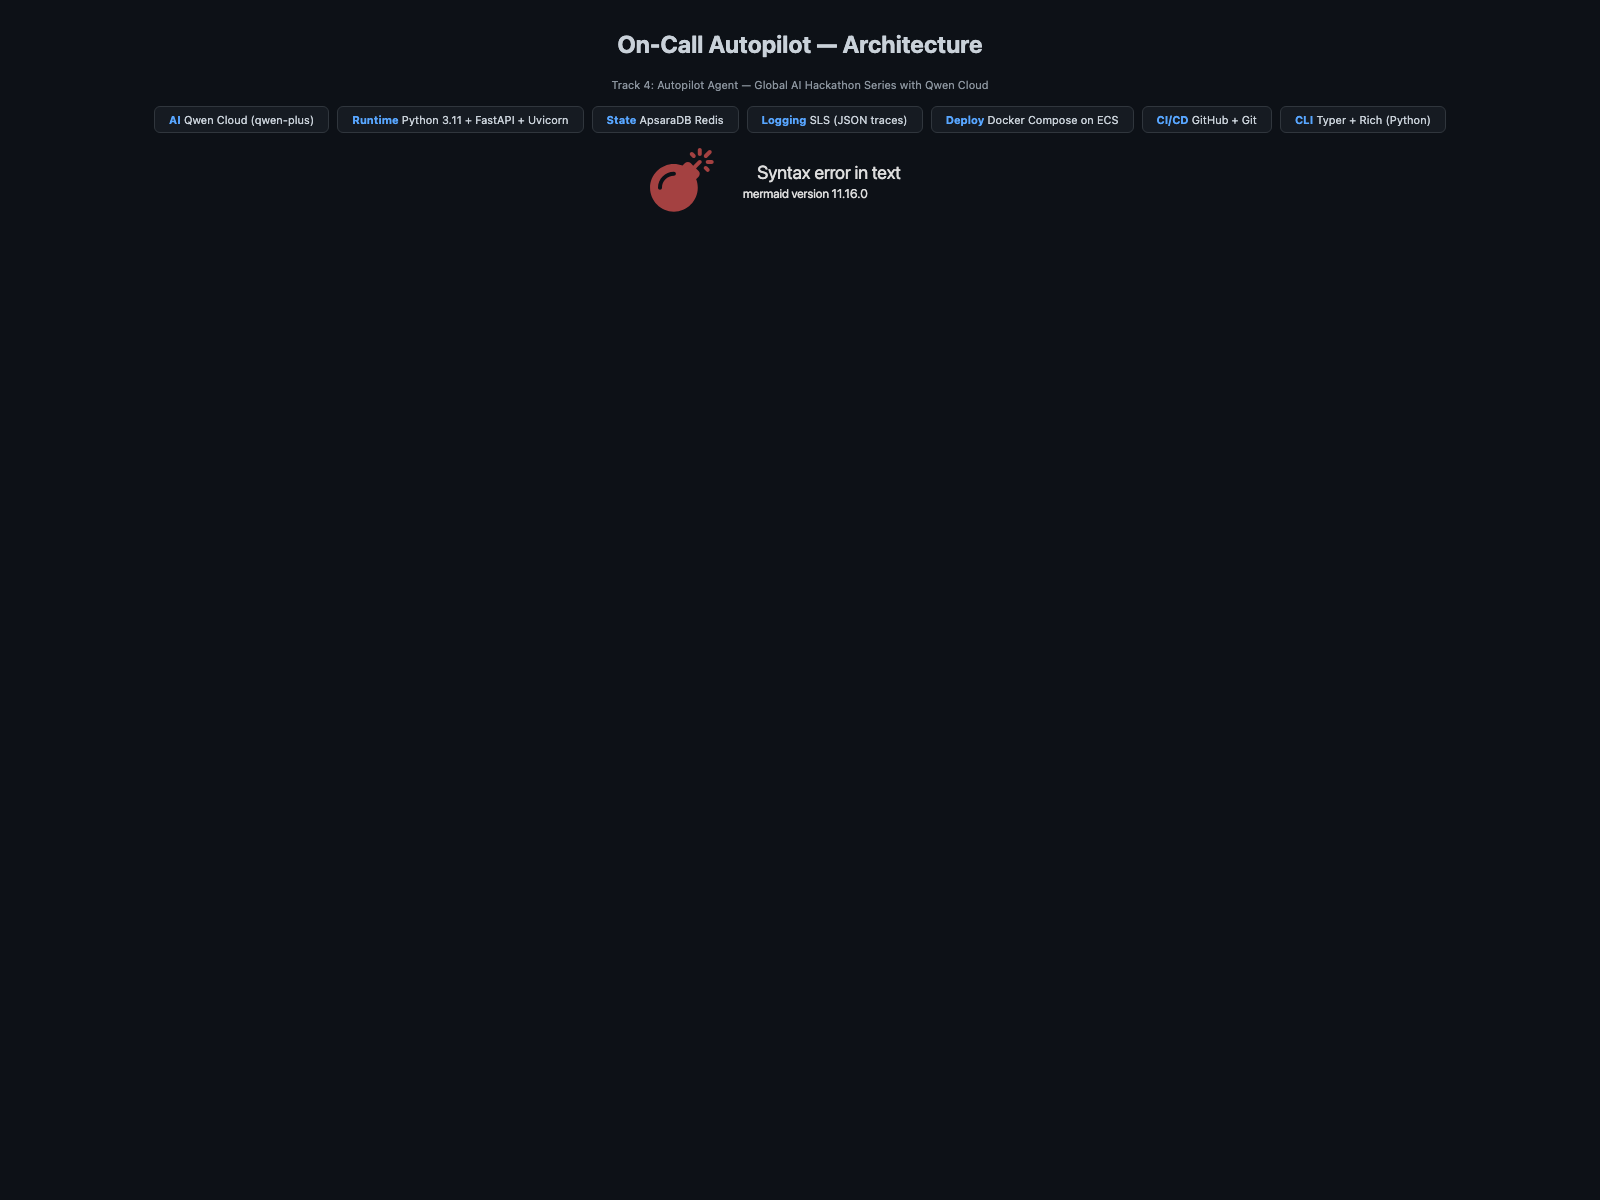
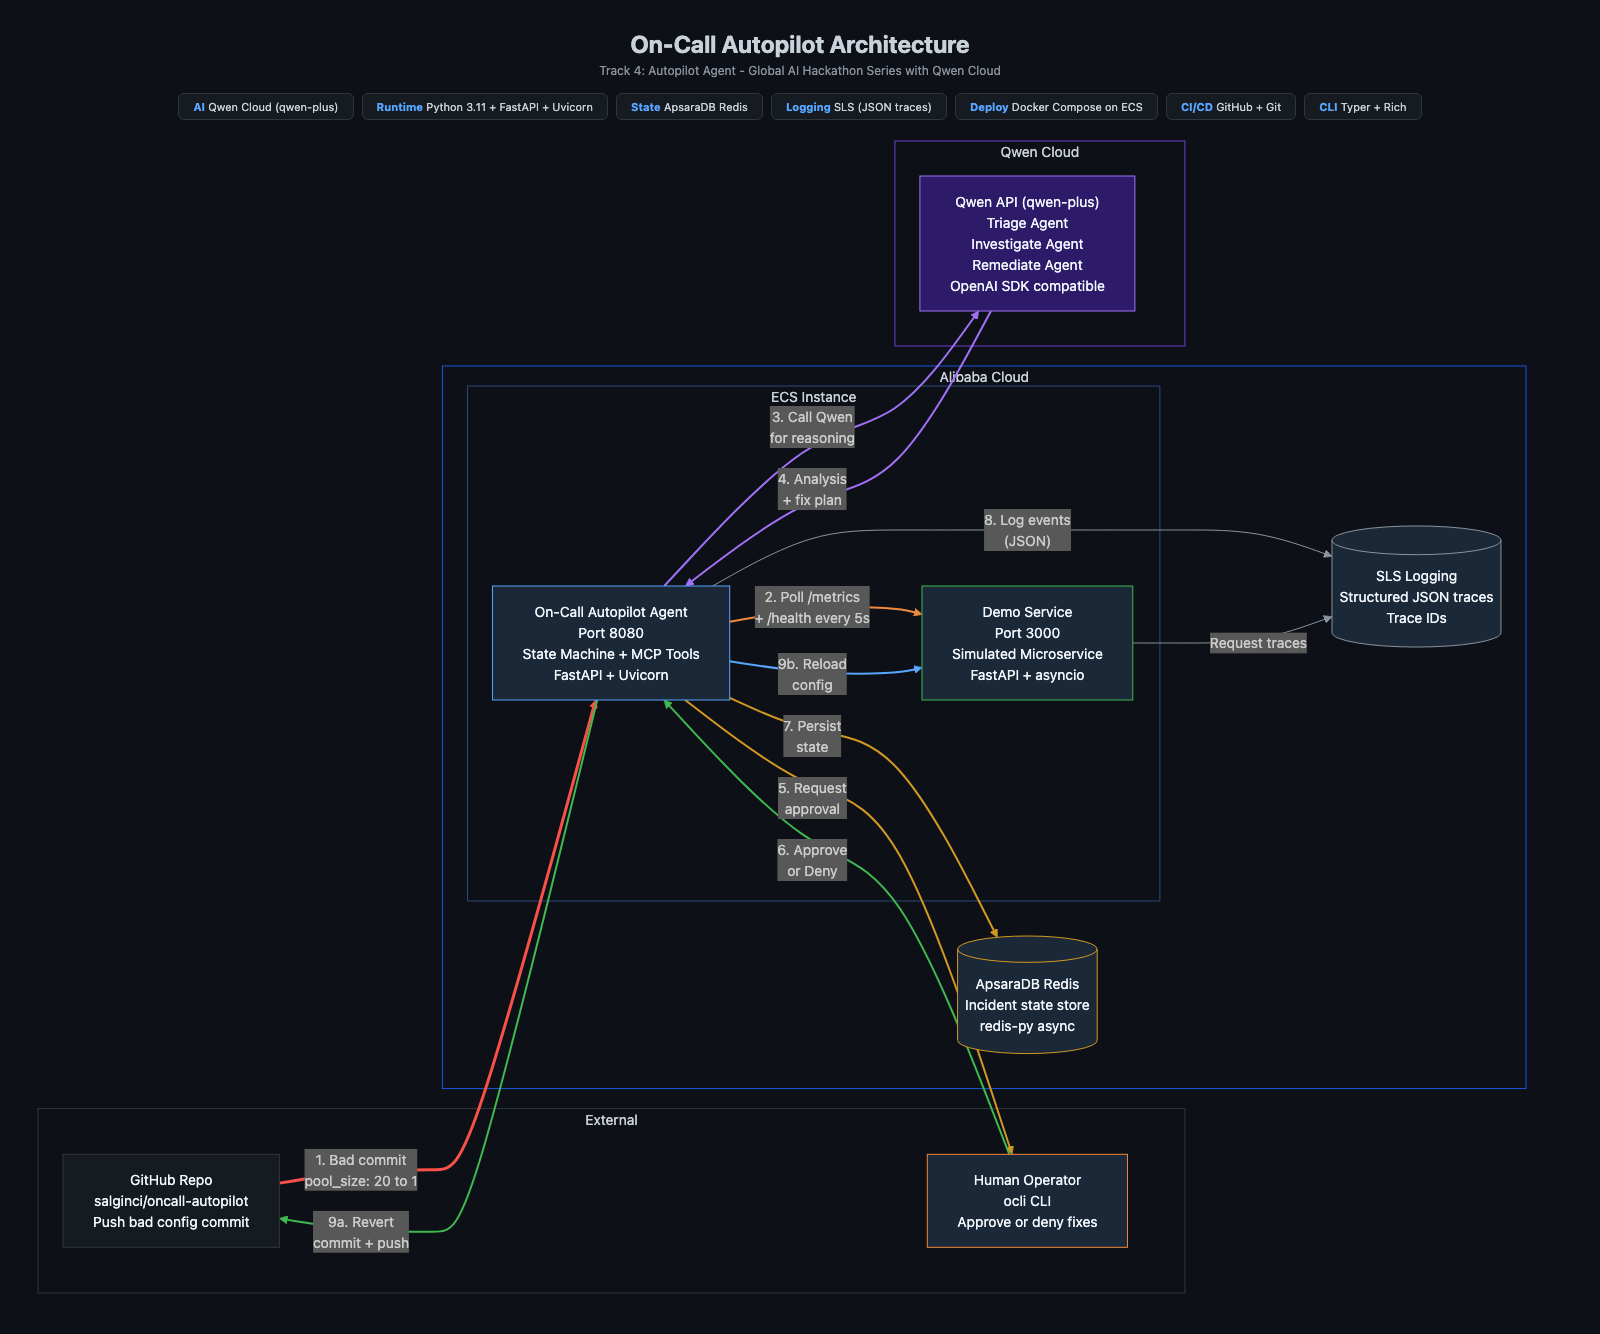
fix: clean Mermaid syntax, remove HTML entities causing parse error

diff --git a/scripts/diagram.html b/scripts/diagram.html
@@ -4,18 +4,17 @@
 <meta charset="utf-8">
 <script src="https://cdn.jsdelivr.net/npm/mermaid@11/dist/mermaid.min.js"></script>
 <style>
-  body { background:#0d1117; margin:30px; font-family:-apple-system,BlinkMacSystemFont,sans-serif; }
-  h1 { color:#c9d1d9; text-align:center; font-size:24px; margin-bottom:20px; }
-  .legend { color:#8b949e; font-size:11px; text-align:center; margin-bottom:10px; }
-  .stacks { display:flex; gap:8px; justify-content:center; margin:15px 0; flex-wrap:wrap; }
-  .stack { background:#161b22; border:1px solid #30363d; border-radius:6px; padding:6px 14px; color:#c9d1d9; font-size:11px; }
-  .stack b { color:#58a6ff; }
-  .mermaid { display:flex; justify-content:center; }
+  body{background:#0d1117;margin:30px;font-family:-apple-system,BlinkMacSystemFont,sans-serif;}
+  h1{color:#c9d1d9;text-align:center;font-size:24px;margin-bottom:5px;}
+  .sub{color:#8b949e;font-size:12px;text-align:center;margin-bottom:15px;}
+  .stacks{display:flex;gap:8px;justify-content:center;margin:10px 0;flex-wrap:wrap;}
+  .stack{background:#161b22;border:1px solid #30363d;border-radius:6px;padding:6px 14px;color:#c9d1d9;font-size:11px;}
+  .stack b{color:#58a6ff;}
 </style>
 </head>
 <body>
-<h1>On-Call Autopilot &mdash; Architecture</h1>
-<div class="legend">Track 4: Autopilot Agent &mdash; Global AI Hackathon Series with Qwen Cloud</div>
+<h1>On-Call Autopilot Architecture</h1>
+<div class="sub">Track 4: Autopilot Agent - Global AI Hackathon Series with Qwen Cloud</div>
 
 <div class="stacks">
   <div class="stack"><b>AI</b> Qwen Cloud (qwen-plus)</div>
@@ -24,61 +23,53 @@
   <div class="stack"><b>Logging</b> SLS (JSON traces)</div>
   <div class="stack"><b>Deploy</b> Docker Compose on ECS</div>
   <div class="stack"><b>CI/CD</b> GitHub + Git</div>
-  <div class="stack"><b>CLI</b> Typer + Rich (Python)</div>
+  <div class="stack"><b>CLI</b> Typer + Rich</div>
 </div>
 
 <pre class="mermaid">
 flowchart LR
-    subgraph EXTERNAL["&nbsp;&nbsp;&nbsp;&nbsp;External Triggers&nbsp;&nbsp;&nbsp;&nbsp;"]
-        direction TB
-        GH["<b>GitHub</b><br/><i>salginci/oncall-autopilot</i><br/>Push bad config commit<br/>━━━━━━━━━━<br/>Tech: Git + GitHub API"]
-        HUMAN("<b>Human Operator</b><br/><i>Human-in-the-Loop</i><br/>Approve or deny fixes<br/>━━━━━━━━━━<br/>Tech: ocli CLI (Typer)"]
+
+    subgraph EXT["External"]
+        GH["GitHub Repo\nsalginci/oncall-autopilot\nPush bad config commit"]
+        HUMAN["Human Operator\nocli CLI\nApprove or deny fixes"]
     end
 
-    subgraph ALIBABA["&nbsp;&nbsp;&nbsp;&nbsp;Alibaba Cloud&nbsp;&nbsp;&nbsp;&nbsp;"]
-        direction TB
-        subgraph ECS["&nbsp;&nbsp;&nbsp;&nbsp;ECS Instance&nbsp;&nbsp;&nbsp;&nbsp;"]
-            direction LR
-            subgraph AGENT_BOX["&nbsp;&nbsp;&nbsp;&nbsp;On-Call Autopilot Agent&nbsp;&nbsp;&nbsp;&nbsp;"]
-                direction TB
-                FSM["<b>State Machine</b><br/>IDLE → RECEIVED<br/>→ TRIAGING<br/>→ INVESTIGATING<br/>→ REMEDIATING<br/>→ WAITING_APPROVAL<br/>→ RESOLVED"]
-                TOOLS["<b>MCP Tools</b><br/>GitHub API<br/>Health Check<br/>Metric Query<br/>Config Reload"]
-            end
-            DEMO["<b>Demo Service</b><br/>Simulated Microservice<br/>GET /health · /metrics<br/>POST /admin/reload<br/>━━━━━━━━━━<br/>Tech: FastAPI + asyncio<br/>Config: config.yaml (mounted)"]
+    subgraph AC["Alibaba Cloud"]
+        subgraph ECS["ECS Instance"]
+            AGENT["On-Call Autopilot Agent\nPort 8080\nState Machine + MCP Tools\nFastAPI + Uvicorn"]
+            DEMO["Demo Service\nPort 3000\nSimulated Microservice\nFastAPI + asyncio"]
         end
-        REDIS[("<b>ApsaraDB Redis</b><br/>Incident State Store<br/>Persists FSM state<br/>━━━━━━━━━━<br/>Tech: Redis 7<br/>Client: redis-py (async)")]
-        SLS[("<b>SLS Logging</b><br/>Simple Log Service<br/>Structured JSON traces<br/>━━━━━━━━━━<br/>Trace IDs across all components")]
+        REDIS[("ApsaraDB Redis\nIncident state store\nredis-py async")]
+        SLS[("SLS Logging\nStructured JSON traces\nTrace IDs")]
     end
 
-    subgraph AI["&nbsp;&nbsp;&nbsp;&nbsp;Qwen Cloud&nbsp;&nbsp;&nbsp;&nbsp;"]
-        API["<b>Qwen API</b> (qwen-plus)<br/>━━━━━━━━━━<br/><i>Triage Agent</i><br/>Severity + impact analysis<br/><br/><i>Investigate Agent</i><br/>Root cause via function calling<br/><br/><i>Remediate Agent</i><br/>Fix plan + risk assessment<br/>━━━━━━━━━━<br/>Tech: OpenAI SDK<br/>Endpoint: dashscope-intl"]
+    subgraph QWEN["Qwen Cloud"]
+        API["Qwen API (qwen-plus)\nTriage Agent\nInvestigate Agent\nRemediate Agent\nOpenAI SDK compatible"]
     end
 
-    GH -->|"1. Bad commit<br/>(pool_size: 20→1)"| FSM
-    FSM -->|"2. Poll every 5s<br/>GET /metrics + /health"| DEMO
-    FSM -->|"3. Invoke Qwen<br/>for reasoning"| API
-    API -->|"4. Analysis result<br/>(JSON)"| FSM
-    FSM -->|"5. Request<br/>human approval"| HUMAN
-    HUMAN -->|"6. Approve<br/>or Deny"| FSM
-    FSM -->|"7. Persist<br/>incident state"| REDIS
-    FSM -->|"8. Emit structured<br/>logs (JSON)"| SLS
-    DEMO -->|"Request metrics<br/>+ traces"| SLS
-    FSM -->|"9a. Git revert<br/>+ push"| GH
-    FSM -->|"9b. Reload<br/>config"| DEMO
+    GH -->|"1. Bad commit\npool_size: 20 to 1"| AGENT
+    AGENT -->|"2. Poll /metrics\n+ /health every 5s"| DEMO
+    AGENT -->|"3. Call Qwen\nfor reasoning"| API
+    API -->|"4. Analysis\n+ fix plan"| AGENT
+    AGENT -->|"5. Request\napproval"| HUMAN
+    HUMAN -->|"6. Approve\nor Deny"| AGENT
+    AGENT -->|"7. Persist\nstate"| REDIS
+    AGENT -->|"8. Log events\n(JSON)"| SLS
+    DEMO -->|"Request traces"| SLS
+    AGENT -->|"9a. Revert\ncommit + push"| GH
+    AGENT -->|"9b. Reload\nconfig"| DEMO
 
-    style EXTERNAL fill:#0d1117,stroke:#30363d,color:#c9d1d9
-    style ALIBABA fill:#0d1117,stroke:#1a56db,color:#c9d1d9
+    style EXT fill:#0d1117,stroke:#30363d,color:#c9d1d9
+    style AC fill:#0d1117,stroke:#1a56db,color:#c9d1d9
     style ECS fill:#0d1117,stroke:#2d4a7a,color:#c9d1d9
-    style AI fill:#0d1117,stroke:#6e40c9,color:#c9d1d9
-    style AGENT_BOX fill:#0d1117,stroke:#58a6ff,color:#c9d1d9
-    style FSM fill:#1b2838,stroke:#58a6ff,color:#f0f6fc
-    style TOOLS fill:#1b2838,stroke:#58a6ff,color:#f0f6fc
+    style QWEN fill:#0d1117,stroke:#6e40c9,color:#c9d1d9
+    style AGENT fill:#1b2838,stroke:#58a6ff,color:#f0f6fc
     style DEMO fill:#1b2838,stroke:#3fb950,color:#f0f6fc
     style API fill:#2d1b69,stroke:#a371f7,color:#f0f6fc
     style REDIS fill:#1b2838,stroke:#d29922,color:#f0f6fc
     style SLS fill:#1b2838,stroke:#8b949e,color:#f0f6fc
     style HUMAN fill:#1b2838,stroke:#f0883e,color:#f0f6fc
-    style GH fill:#1b1f23,stroke:#30363d,color:#f0f6fc
+    style GH fill:#161b22,stroke:#30363d,color:#f0f6fc
 
     linkStyle 0 stroke:#f85149,stroke-width:3px
     linkStyle 1 stroke:#f0883e,stroke-width:2px
@@ -97,11 +88,12 @@ flowchart LR
   mermaid.initialize({
     startOnLoad: true,
     theme: 'dark',
+    securityLevel: 'loose',
     themeVariables: {
       fontFamily: '-apple-system,BlinkMacSystemFont,sans-serif',
       fontSize: '14px',
     },
-    flowchart: { useMaxWidth: true, htmlLabels: true, curve: 'basis', padding: 20 },
+    flowchart: { useMaxWidth: true, htmlLabels: true, curve: 'basis', padding: 15 },
   });
 </script>
 </body>